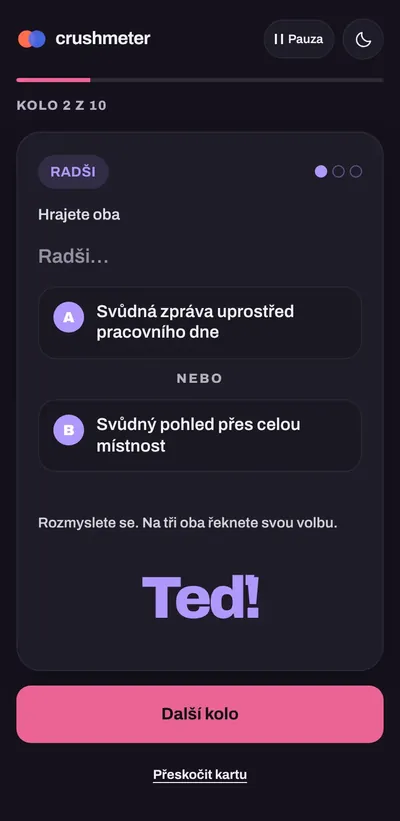
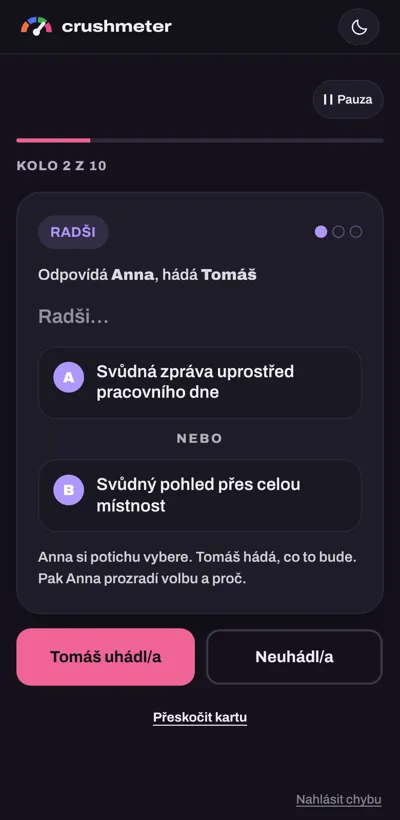
Odvážně 18+: místo odpočítávání na tři hádá druhý hráč
- karty Radši, Nikdy jsem a Kdo z nás: jeden odpovídá, druhý nejdřív tipne jeho odpověď
- tlačítka Uhádl/a a Neuhádl/a, body za uhádnutí, na konci skóre a kdo koho líp zná
- texty na prodejní stránce, v pravidlech a nový náhled na úvodní stránce, SW v38

Claude-Session: https://claude.ai/code/session_01TxdmqZYCfdtdxZaPeVsj1b

diff --git a/index.html b/index.html
@@ -39,7 +39,7 @@
 <section class="home-section" id="ukazka" aria-labelledby="demo-h">
 <h2 id="demo-h">Takhle to vypadá</h2>
 <div class="demo-tabs" role="tablist" aria-label="Vyberte hru"><button type="button" class="demo-tab is-quiz" role="tab" id="tab-quiz" aria-controls="demo-quiz" aria-selected="false">Kdo ví víc</button><button type="button" class="demo-tab is-know" role="tab" id="tab-know" aria-controls="demo-know" aria-selected="true">Jak dobře se znáte?</button><button type="button" class="demo-tab is-guess" role="tab" id="tab-guess" aria-controls="demo-guess" aria-selected="false">Předveď a hádej</button><button type="button" class="demo-tab is-adult" role="tab" id="tab-adult" aria-controls="demo-adult" aria-selected="false">Odvážně 18+</button></div>
-<div class="demo-panel" id="demo-know" role="tabpanel" aria-labelledby="tab-know"><ol class="demo-steps"><li><figure><button type="button" class="demo-zoom" aria-label="Zvětšit ukázku"><div class="phone"><img src="/assets/img/demo/know-1.webp" srcset="/assets/img/demo/know-1-400.webp 400w, /assets/img/demo/know-1.webp 780w" sizes="(max-width: 700px) 46vw, 300px" alt="Jak dobře se znáte?: Jeden si v klidu vybere odpověď o sobě." width="390" height="800" decoding="async"></div></button><figcaption>Jeden si v klidu vybere odpověď o sobě.</figcaption></figure></li><li><figure><button type="button" class="demo-zoom" aria-label="Zvětšit ukázku"><div class="phone"><img src="/assets/img/demo/know-2.webp" srcset="/assets/img/demo/know-2-400.webp 400w, /assets/img/demo/know-2.webp 780w" sizes="(max-width: 700px) 46vw, 300px" alt="Jak dobře se znáte?: Předá telefon a druhý tipuje, co vybral." width="390" height="800" decoding="async"></div></button><figcaption>Předá telefon a druhý tipuje, co vybral.</figcaption></figure></li><li><figure><button type="button" class="demo-zoom" aria-label="Zvětšit ukázku"><div class="phone"><img src="/assets/img/demo/know-3.webp" srcset="/assets/img/demo/know-3-400.webp 400w, /assets/img/demo/know-3.webp 780w" sizes="(max-width: 700px) 46vw, 300px" alt="Jak dobře se znáte?: Hra ukáže, jestli se trefil. Pak se role otočí." width="390" height="800" decoding="async"></div></button><figcaption>Hra ukáže, jestli se trefil. Pak se role otočí.</figcaption></figure></li></ol><a class="btn demo-go is-know" href="/jak-dobre-se-znate.html">Hrát Jak dobře se znáte?</a></div><div class="demo-panel" id="demo-guess" role="tabpanel" aria-labelledby="tab-guess"><ol class="demo-steps"><li><figure><button type="button" class="demo-zoom" aria-label="Zvětšit ukázku"><div class="phone"><img src="/assets/img/demo/guess-1.webp" srcset="/assets/img/demo/guess-1-400.webp 400w, /assets/img/demo/guess-1.webp 780w" sizes="(max-width: 700px) 46vw, 300px" alt="Předveď a hádej: Kdo napovídá, tajně si odkryje pojem." width="390" height="800" decoding="async"></div></button><figcaption>Kdo napovídá, tajně si odkryje pojem.</figcaption></figure></li><li><figure><button type="button" class="demo-zoom" aria-label="Zvětšit ukázku"><div class="phone"><img src="/assets/img/demo/guess-2.webp" srcset="/assets/img/demo/guess-2-400.webp 400w, /assets/img/demo/guess-2.webp 780w" sizes="(max-width: 700px) 46vw, 300px" alt="Předveď a hádej: Běží minuta. Popisujete, předvádíte nebo kreslíte." width="390" height="800" decoding="async"></div></button><figcaption>Běží minuta. Popisujete, předvádíte nebo kreslíte.</figcaption></figure></li><li><figure><button type="button" class="demo-zoom" aria-label="Zvětšit ukázku"><div class="phone"><img src="/assets/img/demo/guess-3.webp" srcset="/assets/img/demo/guess-3-400.webp 400w, /assets/img/demo/guess-3.webp 780w" sizes="(max-width: 700px) 46vw, 300px" alt="Předveď a hádej: Uhodnuto? Bod je společný a role se mění." width="390" height="800" decoding="async"></div></button><figcaption>Uhodnuto? Bod je společný a role se mění.</figcaption></figure></li></ol><a class="btn demo-go is-guess" href="/predved-a-hadej.html">Hrát Předveď a hádej</a></div><div class="demo-panel" id="demo-quiz" role="tabpanel" aria-labelledby="tab-quiz"><ol class="demo-steps"><li><figure><button type="button" class="demo-zoom" aria-label="Zvětšit ukázku"><div class="phone"><img src="/assets/img/demo/quiz-1.webp" srcset="/assets/img/demo/quiz-1-400.webp 400w, /assets/img/demo/quiz-1.webp 780w" sizes="(max-width: 700px) 46vw, 300px" alt="Kdo ví víc: Kdo odpovídá, vybere kategorii a obtížnost." width="390" height="800" decoding="async"></div></button><figcaption>Kdo odpovídá, vybere kategorii a obtížnost.</figcaption></figure></li><li><figure><button type="button" class="demo-zoom" aria-label="Zvětšit ukázku"><div class="phone"><img src="/assets/img/demo/quiz-2.webp" srcset="/assets/img/demo/quiz-2-400.webp 400w, /assets/img/demo/quiz-2.webp 780w" sizes="(max-width: 700px) 46vw, 300px" alt="Kdo ví víc: Předá telefon soupeři, ten otázku přečte nahlas." width="390" height="800" decoding="async"></div></button><figcaption>Předá telefon soupeři, ten otázku přečte nahlas.</figcaption></figure></li><li><figure><button type="button" class="demo-zoom" aria-label="Zvětšit ukázku"><div class="phone"><img src="/assets/img/demo/quiz-3.webp" srcset="/assets/img/demo/quiz-3-400.webp 400w, /assets/img/demo/quiz-3.webp 780w" sizes="(max-width: 700px) 46vw, 300px" alt="Kdo ví víc: Běží čas. Soupeř vidí odpověď a rozhodne, jestli platí." width="390" height="800" decoding="async"></div></button><figcaption>Běží čas. Soupeř vidí odpověď a rozhodne, jestli platí.</figcaption></figure></li></ol><a class="btn demo-go is-quiz" href="/kdo-vi-vic.html">Hrát Kdo ví víc</a></div><div class="demo-panel" id="demo-adult" role="tabpanel" aria-labelledby="tab-adult"><ol class="demo-steps"><li><figure><button type="button" class="demo-zoom" aria-label="Zvětšit ukázku"><div class="phone"><img src="/assets/img/demo/adult-1.webp" srcset="/assets/img/demo/adult-1-400.webp 400w, /assets/img/demo/adult-1.webp 780w" sizes="(max-width: 700px) 46vw, 300px" alt="Odvážně 18+: Přiznání: jeden odpovídá, druhý poslouchá." width="390" height="800" decoding="async"></div></button><figcaption>Přiznání: jeden odpovídá, druhý poslouchá.</figcaption></figure></li><li><figure><button type="button" class="demo-zoom" aria-label="Zvětšit ukázku"><div class="phone"><img src="/assets/img/demo/adult-2.webp" srcset="/assets/img/demo/adult-2-400.webp 400w, /assets/img/demo/adult-2.webp 780w" sizes="(max-width: 700px) 46vw, 300px" alt="Odvážně 18+: Radši: na tři oba ukážete svou volbu." width="390" height="800" decoding="async"></div></button><figcaption>Radši: na tři oba ukážete svou volbu.</figcaption></figure></li><li><figure><button type="button" class="demo-zoom" aria-label="Zvětšit ukázku"><div class="phone"><img src="/assets/img/demo/adult-3.webp" srcset="/assets/img/demo/adult-3-400.webp 400w, /assets/img/demo/adult-3.webp 780w" sizes="(max-width: 700px) 46vw, 300px" alt="Odvážně 18+: Výzva: splníte, nebo v klidu přeskočíte." width="390" height="800" decoding="async"></div></button><figcaption>Výzva: splníte, nebo v klidu přeskočíte.</figcaption></figure></li></ol><a class="btn demo-go is-adult" href="/odvazne-18-ukazka.html">Zkusit ukázku zdarma</a></div>
+<div class="demo-panel" id="demo-know" role="tabpanel" aria-labelledby="tab-know"><ol class="demo-steps"><li><figure><button type="button" class="demo-zoom" aria-label="Zvětšit ukázku"><div class="phone"><img src="/assets/img/demo/know-1.webp" srcset="/assets/img/demo/know-1-400.webp 400w, /assets/img/demo/know-1.webp 780w" sizes="(max-width: 700px) 46vw, 300px" alt="Jak dobře se znáte?: Jeden si v klidu vybere odpověď o sobě." width="390" height="800" decoding="async"></div></button><figcaption>Jeden si v klidu vybere odpověď o sobě.</figcaption></figure></li><li><figure><button type="button" class="demo-zoom" aria-label="Zvětšit ukázku"><div class="phone"><img src="/assets/img/demo/know-2.webp" srcset="/assets/img/demo/know-2-400.webp 400w, /assets/img/demo/know-2.webp 780w" sizes="(max-width: 700px) 46vw, 300px" alt="Jak dobře se znáte?: Předá telefon a druhý tipuje, co vybral." width="390" height="800" decoding="async"></div></button><figcaption>Předá telefon a druhý tipuje, co vybral.</figcaption></figure></li><li><figure><button type="button" class="demo-zoom" aria-label="Zvětšit ukázku"><div class="phone"><img src="/assets/img/demo/know-3.webp" srcset="/assets/img/demo/know-3-400.webp 400w, /assets/img/demo/know-3.webp 780w" sizes="(max-width: 700px) 46vw, 300px" alt="Jak dobře se znáte?: Hra ukáže, jestli se trefil. Pak se role otočí." width="390" height="800" decoding="async"></div></button><figcaption>Hra ukáže, jestli se trefil. Pak se role otočí.</figcaption></figure></li></ol><a class="btn demo-go is-know" href="/jak-dobre-se-znate.html">Hrát Jak dobře se znáte?</a></div><div class="demo-panel" id="demo-guess" role="tabpanel" aria-labelledby="tab-guess"><ol class="demo-steps"><li><figure><button type="button" class="demo-zoom" aria-label="Zvětšit ukázku"><div class="phone"><img src="/assets/img/demo/guess-1.webp" srcset="/assets/img/demo/guess-1-400.webp 400w, /assets/img/demo/guess-1.webp 780w" sizes="(max-width: 700px) 46vw, 300px" alt="Předveď a hádej: Kdo napovídá, tajně si odkryje pojem." width="390" height="800" decoding="async"></div></button><figcaption>Kdo napovídá, tajně si odkryje pojem.</figcaption></figure></li><li><figure><button type="button" class="demo-zoom" aria-label="Zvětšit ukázku"><div class="phone"><img src="/assets/img/demo/guess-2.webp" srcset="/assets/img/demo/guess-2-400.webp 400w, /assets/img/demo/guess-2.webp 780w" sizes="(max-width: 700px) 46vw, 300px" alt="Předveď a hádej: Běží minuta. Popisujete, předvádíte nebo kreslíte." width="390" height="800" decoding="async"></div></button><figcaption>Běží minuta. Popisujete, předvádíte nebo kreslíte.</figcaption></figure></li><li><figure><button type="button" class="demo-zoom" aria-label="Zvětšit ukázku"><div class="phone"><img src="/assets/img/demo/guess-3.webp" srcset="/assets/img/demo/guess-3-400.webp 400w, /assets/img/demo/guess-3.webp 780w" sizes="(max-width: 700px) 46vw, 300px" alt="Předveď a hádej: Uhodnuto? Bod je společný a role se mění." width="390" height="800" decoding="async"></div></button><figcaption>Uhodnuto? Bod je společný a role se mění.</figcaption></figure></li></ol><a class="btn demo-go is-guess" href="/predved-a-hadej.html">Hrát Předveď a hádej</a></div><div class="demo-panel" id="demo-quiz" role="tabpanel" aria-labelledby="tab-quiz"><ol class="demo-steps"><li><figure><button type="button" class="demo-zoom" aria-label="Zvětšit ukázku"><div class="phone"><img src="/assets/img/demo/quiz-1.webp" srcset="/assets/img/demo/quiz-1-400.webp 400w, /assets/img/demo/quiz-1.webp 780w" sizes="(max-width: 700px) 46vw, 300px" alt="Kdo ví víc: Kdo odpovídá, vybere kategorii a obtížnost." width="390" height="800" decoding="async"></div></button><figcaption>Kdo odpovídá, vybere kategorii a obtížnost.</figcaption></figure></li><li><figure><button type="button" class="demo-zoom" aria-label="Zvětšit ukázku"><div class="phone"><img src="/assets/img/demo/quiz-2.webp" srcset="/assets/img/demo/quiz-2-400.webp 400w, /assets/img/demo/quiz-2.webp 780w" sizes="(max-width: 700px) 46vw, 300px" alt="Kdo ví víc: Předá telefon soupeři, ten otázku přečte nahlas." width="390" height="800" decoding="async"></div></button><figcaption>Předá telefon soupeři, ten otázku přečte nahlas.</figcaption></figure></li><li><figure><button type="button" class="demo-zoom" aria-label="Zvětšit ukázku"><div class="phone"><img src="/assets/img/demo/quiz-3.webp" srcset="/assets/img/demo/quiz-3-400.webp 400w, /assets/img/demo/quiz-3.webp 780w" sizes="(max-width: 700px) 46vw, 300px" alt="Kdo ví víc: Běží čas. Soupeř vidí odpověď a rozhodne, jestli platí." width="390" height="800" decoding="async"></div></button><figcaption>Běží čas. Soupeř vidí odpověď a rozhodne, jestli platí.</figcaption></figure></li></ol><a class="btn demo-go is-quiz" href="/kdo-vi-vic.html">Hrát Kdo ví víc</a></div><div class="demo-panel" id="demo-adult" role="tabpanel" aria-labelledby="tab-adult"><ol class="demo-steps"><li><figure><button type="button" class="demo-zoom" aria-label="Zvětšit ukázku"><div class="phone"><img src="/assets/img/demo/adult-1.webp" srcset="/assets/img/demo/adult-1-400.webp 400w, /assets/img/demo/adult-1.webp 780w" sizes="(max-width: 700px) 46vw, 300px" alt="Odvážně 18+: Přiznání: jeden odpovídá, druhý poslouchá." width="390" height="800" decoding="async"></div></button><figcaption>Přiznání: jeden odpovídá, druhý poslouchá.</figcaption></figure></li><li><figure><button type="button" class="demo-zoom" aria-label="Zvětšit ukázku"><div class="phone"><img src="/assets/img/demo/adult-2.webp" srcset="/assets/img/demo/adult-2-400.webp 400w, /assets/img/demo/adult-2.webp 780w" sizes="(max-width: 700px) 46vw, 300px" alt="Odvážně 18+: Radši: jeden si vybere, druhý hádá co." width="390" height="800" decoding="async"></div></button><figcaption>Radši: jeden si vybere, druhý hádá co.</figcaption></figure></li><li><figure><button type="button" class="demo-zoom" aria-label="Zvětšit ukázku"><div class="phone"><img src="/assets/img/demo/adult-3.webp" srcset="/assets/img/demo/adult-3-400.webp 400w, /assets/img/demo/adult-3.webp 780w" sizes="(max-width: 700px) 46vw, 300px" alt="Odvážně 18+: Výzva: splníte, nebo v klidu přeskočíte." width="390" height="800" decoding="async"></div></button><figcaption>Výzva: splníte, nebo v klidu přeskočíte.</figcaption></figure></li></ol><a class="btn demo-go is-adult" href="/odvazne-18-ukazka.html">Zkusit ukázku zdarma</a></div>
 </section>
 
 <section class="home-section about" aria-labelledby="about-h">

diff --git a/assets/adult.js b/assets/adult.js
@@ -14,9 +14,9 @@
 
   const TYPES = {
     priznani: { kicker: 'PŘIZNÁNÍ', prefix: '', how: 'Odpověz nahlas a upřímně. Druhý poslouchá.', personal: true, main: 'Řečeno, další' },
-    radsi: { kicker: 'RADŠI', prefix: '', how: 'Rozmyslete se. Na tři oba řeknete svou volbu.', sync: true },
-    nikdy: { kicker: 'NIKDY JSEM…', prefix: 'Nikdy jsem ', how: 'Na tři oba řeknete: „dělal/a“, nebo „nedělal/a“.', sync: true },
-    kdo: { kicker: 'KDO Z NÁS…', prefix: 'Kdo z nás ', how: 'Na tři oba ukážete prstem.', sync: true },
+    radsi: { kicker: 'RADŠI', prefix: '', how: (p, o) => `${p} si potichu vybere. ${o} hádá, co to bude. Pak ${p} prozradí volbu a proč.`, personal: true, guess: true },
+    nikdy: { kicker: 'NIKDY JSEM…', prefix: 'Nikdy jsem ', how: (p, o) => `${o} tipne, jestli to ${p} někdy udělal/a. Pak ${p} řekne pravdu, a když ano, i příběh.`, personal: true, guess: true },
+    kdo: { kicker: 'KDO Z NÁS…', prefix: 'Kdo z nás ', how: (p, o) => `${p} si v duchu odpoví. ${o} hádá, koho z vás ${p} označí. Pak se to vysvětlí.`, personal: true, guess: true },
     vyzva: { kicker: 'VÝZVA', prefix: '', how: 'Splň ji, nebo ji přeskoč. Nikdo tě nenutí.', personal: true, main: 'Splněno, další' }
   };
   const LEVELS = { 1: 'Lehce osobní', 2: 'Odvážné', 3: 'Velmi žhavé' };
@@ -143,6 +143,8 @@ ${full && access ? `<p class="a-small"><button type="button" class="text-button"
     const meta = TYPES[card.type];
     const total = s.cards.length;
     const player = meta.personal ? s.players[s.t % 2] : null;
+    const other = meta.personal ? s.players[(s.t + 1) % 2] : null;
+    const how = typeof meta.how === 'function' ? meta.how(E(player), E(other)) : meta.how;
     const body = card.type === 'radsi'
       ? `<p class="a-prefix">Radši…</p><div class="a-ab"><div><b>A</b><span>${E(card.a)}</span></div><div class="a-or" aria-hidden="true">nebo</div><div><b>B</b><span>${E(card.b)}</span></div></div>`
       : `${meta.prefix ? `<p class="a-prefix">${E(meta.prefix.trim())}</p>` : ''}<h2 class="a-text" data-focus tabindex="-1">${E(card.text)}</h2>`;
@@ -152,23 +154,26 @@ ${full && access ? `<p class="a-small"><button type="button" class="text-button"
 <p class="a-count">Kolo ${s.i + 1} z ${total}</p>
 <article class="a-card t-${card.type}" id="a-card">
 <div class="a-card-top"><span class="a-type">${meta.kicker}</span>${card.ero ? '<span class="a-ero">Erotika</span>' : ''}<span class="a-lvl" role="img" aria-label="Intenzita: ${LEVELS[card.lvl]}">${lvl}</span></div>
-<p class="a-who">${player ? `Na řadě: <b>${E(player)}</b>` : 'Hrajete oba'}</p>
+<p class="a-who">${meta.guess ? `Odpovídá <b>${E(player)}</b>, hádá <b>${E(other)}</b>` : player ? `Na řadě: <b>${E(player)}</b>` : 'Hrajete oba'}</p>
 ${body}
-<p class="a-how">${meta.how}</p>
-<div class="a-count3" id="a-count3" aria-live="assertive" hidden></div>
+<p class="a-how">${how}</p>
 </article>
-<div class="a-actions"><button type="button" class="arcade-button a-main" data-act="${meta.sync ? 'countdown' : 'next'}" id="a-main">${meta.sync ? 'Na tři!' : meta.main}</button><button type="button" class="text-button" data-act="skip">Přeskočit kartu</button></div>
+<div class="a-actions">${meta.guess ? `<div class="a-guess"><button type="button" class="arcade-button a-main" data-act="hit" id="a-main">${E(other)} uhádl/a</button><button type="button" class="arcade-button is-ghost" data-act="miss">Neuhádl/a</button></div>` : `<button type="button" class="arcade-button a-main" data-act="next" id="a-main">${meta.main}</button>`}<button type="button" class="text-button" data-act="skip">Přeskočit kartu</button></div>
 <p class="report-row">${REPORT('Odvážně 18+',['Karta: '+card.id,card.type==='radsi'?'Radši: '+card.a+' / '+card.b:'Text: '+card.text])}</p>`, card.type === 'radsi' ? '#a-main' : '[data-focus]');
   }
 
   function endScreen() {
     lsDel(SESSION_KEY);
     const played = s.cards.length - (s.dropped || 0);
+    const sc = s.score || [0, 0];
+    const guessed = sc[0] + sc[1] > 0 || s.guesses;
+    const verdict = sc[0] === sc[1] ? 'Znáte se navzájem stejně dobře.' : `Líp odhaduje ${E(s.players[sc[0] > sc[1] ? 0 : 1])}.`;
+    const scoreHtml = guessed ? `<div class="a-score" aria-label="Uhádnuté odpovědi"><div><span>${E(s.players[0])}</span><b>${sc[0]}</b></div><div><span>${E(s.players[1])}</span><b>${sc[1]}</b></div></div><p class="a-verdict">${verdict}</p>` : '';
     track(mode === 'full' ? 'paid_game_complete' : 'adult_preview_complete', { game: 'odvazne-18', mode, rounds: s.cards.length, skipped: s.skipped });
     const offer = mode === 'preview'
       ? `<section class="a-offer" id="a-offer"><span class="a-sticker">18+</span><h2>Chcete dál?</h2><p>Plná hra má 234 karet v pěti typech kol, z toho 84 erotických pro páry. Pár nebo kamarádi, intenzitu si nastavíte. Přístup na 12 měsíců za 99 Kč, jednorázově, bez předplatného.</p><div class="a-actions">${shopLink('preview-end', 'Koupit za 99 Kč')}<a class="text-button" href="/odvazne-18.html" data-track="adult_offer_click" data-track-placement="preview-end">Co hra obsahuje</a><a class="text-button" href="/odvazne-18-hrat.html">Už mám přístup</a></div></section>`
       : '';
-    screen(`${topbar()}<section class="a-panel a-end"><span class="a-sticker">18+</span><h1 data-focus tabindex="-1">${mode === 'full' ? 'To byl večer.' : 'To byla ochutnávka.'}</h1><p class="a-lead">Odehráno ${played} ${played === 1 ? 'kolo' : played >= 2 && played <= 4 ? 'kola' : 'kol'}${s.skipped ? `, přeskočeno ${s.skipped}` : ''}.</p>${offer}<aside class="promo is-tarot" data-partner-slot><span class="promo-mark" aria-hidden="true">✦</span><div><small>Něco jiného</small><strong>Co vám karty řeknou o vás dvou?</strong><p>Virtuální kartářka vám vytáhne karty a odpoví česky.</p><a href="https://virtualnikartarka.cz/?utm_source=crushmeter&amp;utm_medium=referral&amp;utm_campaign=konec_hry_18" target="_blank" rel="noopener" data-track="click_virtualni_kartarka" data-track-placement="adult-end">Vytáhnout karty →</a></div></aside><div class="a-actions"><button type="button" class="arcade-button" data-act="again">Zahrát znovu</button><a class="text-button" href="/">Zpět na hry</a></div></section>`);
+    screen(`${topbar()}<section class="a-panel a-end"><span class="a-sticker">18+</span><h1 data-focus tabindex="-1">${mode === 'full' ? 'To byl večer.' : 'To byla ochutnávka.'}</h1><p class="a-lead">Odehráno ${played} ${played === 1 ? 'kolo' : played >= 2 && played <= 4 ? 'kola' : 'kol'}${s.skipped ? `, přeskočeno ${s.skipped}` : ''}.</p>${scoreHtml}${offer}<aside class="promo is-tarot" data-partner-slot><span class="promo-mark" aria-hidden="true">✦</span><div><small>Něco jiného</small><strong>Co vám karty řeknou o vás dvou?</strong><p>Virtuální kartářka vám vytáhne karty a odpoví česky.</p><a href="https://virtualnikartarka.cz/?utm_source=crushmeter&amp;utm_medium=referral&amp;utm_campaign=konec_hry_18" target="_blank" rel="noopener" data-track="click_virtualni_kartarka" data-track-placement="adult-end">Vytáhnout karty →</a></div></aside><div class="a-actions"><button type="button" class="arcade-button" data-act="again">Zahrát znovu</button><a class="text-button" href="/">Zpět na hry</a></div></section>`);
     if (mode === 'preview') track('adult_offer_view', { game: 'odvazne-18', placement: 'preview-end' });
     s = null;
   }
@@ -179,7 +184,7 @@ ${body}
     lsSet(NAMES_KEY, [opts.p1 || '', opts.p2 || '']);
     const cards = mode === 'preview' ? pool.map(c => c.id) : buildDeck({ aud: opts.aud, max: opts.max, rounds: opts.rounds, ero: opts.ero });
     if (!cards.length) { accessGate('Pro toto nastavení se nenašly karty. Zkus vyšší intenzitu.', 'bad'); return; }
-    s = { players: names, cards, i: 0, t: Math.random() < 0.5 ? 0 : 1, skipped: 0, aud: opts.aud || 'oba', max: opts.max || 3, ero: opts.ero || 'bez' };
+    s = { players: names, cards, i: 0, t: Math.random() < 0.5 ? 0 : 1, skipped: 0, score: [0, 0], guesses: 0, aud: opts.aud || 'oba', max: opts.max || 3, ero: opts.ero || 'bez' };
     lsSet(SESSION_KEY, s);
     track(mode === 'full' ? 'paid_game_start' : 'adult_preview_start', { game: 'odvazne-18', mode, rounds: cards.length, level: s.max, audience: s.aud });
     cardScreen();
@@ -217,24 +222,7 @@ ${body}
     cardScreen();
   }
 
-  function countdown() {
-    const box = document.getElementById('a-count3');
-    const btn = document.getElementById('a-main');
-    btn.disabled = true;
-    box.hidden = false;
-    let n = 3;
-    const tick = () => {
-      if (n > 0) { box.textContent = n; box.className = 'a-count3 n' + n; n -= 1; }
-      else {
-        clearInterval(timer);
-        box.textContent = 'Teď!'; box.className = 'a-count3 go';
-        btn.disabled = false; btn.textContent = 'Další kolo'; btn.dataset.act = 'next';
-        btn.focus({ preventScroll: true });
-      }
-    };
-    tick();
-    timer = setInterval(tick, REDUCED ? 700 : 850);
-  }
+
 
   function formValues(form) {
     const f = new FormData(form);
@@ -247,7 +235,7 @@ ${body}
     const act = el.dataset.act;
     if (act === 'age-yes') { lsSet(AGE_KEY, new Date().toISOString().slice(0, 10)); return boot(); }
     if (act === 'resume') { s = lsGet(SESSION_KEY, null); if (s) return cardScreen(); }
-    if (act === 'countdown') return countdown();
+    if (act === 'hit' || act === 'miss') { if (!s.score) s.score = [0, 0]; s.guesses = (s.guesses || 0) + 1; if (act === 'hit') s.score[(s.t + 1) % 2] += 1; return advance(); }
     if (act === 'next') return advance();
     if (act === 'skip') return skip();
     if (act === 'menu') { clearInterval(timer); lsSet(SESSION_KEY, s); return setup(); }

diff --git a/jak-hrat.html b/jak-hrat.html
@@ -14,7 +14,7 @@
 
 
 
-<section class="rule is-adult" id="odvazne-18" aria-labelledby="odvazne-18-h"><header class="rule-head"><div><h2 id="odvazne-18-h">Odvážně 18+</h2><p>Přiznání, volby a výzvy pro dospělé páry i kamarády.</p><ul class="rule-facts"><li><svg viewBox="0 0 24 24" fill="none" stroke="currentColor" stroke-width="2" stroke-linecap="round" aria-hidden="true"><circle cx="9" cy="8" r="3.5"/><path d="M2.5 20c.6-3.4 3.2-5.5 6.5-5.5s5.9 2.1 6.5 5.5M16 4.6a3.5 3.5 0 0 1 0 6.8M18.5 14.8c1.7.8 2.8 2.6 3 5.2"/></svg><span>2 hráči, jen 18+</span></li><li><svg viewBox="0 0 24 24" fill="none" stroke="currentColor" stroke-width="2" stroke-linecap="round" aria-hidden="true"><circle cx="12" cy="12" r="9"/><path d="M12 7v5l3 2"/></svg><span>10, 20 nebo 30 kol</span></li><li><svg viewBox="0 0 24 24" fill="none" stroke="currentColor" stroke-width="2" stroke-linejoin="round" aria-hidden="true"><rect x="3" y="6" width="12" height="15" rx="2"/><path d="M8 3h11a2 2 0 0 1 2 2v13"/></svg><span>234 karet</span></li></ul></div><a class="btn rule-go" href="/odvazne-18-ukazka.html">Zkusit 10 karet zdarma</a></header><div class="rule-body"><ol class="rule-steps"><li><button type="button" class="demo-zoom" aria-label="Zvětšit ukázku"><div class="phone"><img src="/assets/img/demo/adult-1.webp" srcset="/assets/img/demo/adult-1-400.webp 400w, /assets/img/demo/adult-1.webp 780w" sizes="(max-width: 700px) 46vw, 300px" alt="" width="390" height="800" loading="lazy" decoding="async"></div></button><p>Přiznání: jeden odpovídá, druhý poslouchá.</p></li><li><button type="button" class="demo-zoom" aria-label="Zvětšit ukázku"><div class="phone"><img src="/assets/img/demo/adult-2.webp" srcset="/assets/img/demo/adult-2-400.webp 400w, /assets/img/demo/adult-2.webp 780w" sizes="(max-width: 700px) 46vw, 300px" alt="" width="390" height="800" loading="lazy" decoding="async"></div></button><p>Radši: na tři oba ukážete svou volbu.</p></li><li><button type="button" class="demo-zoom" aria-label="Zvětšit ukázku"><div class="phone"><img src="/assets/img/demo/adult-3.webp" srcset="/assets/img/demo/adult-3-400.webp 400w, /assets/img/demo/adult-3.webp 780w" sizes="(max-width: 700px) 46vw, 300px" alt="" width="390" height="800" loading="lazy" decoding="async"></div></button><p>Výzva: splníte, nebo v klidu přeskočíte.</p></li></ol><h3>Tři úrovně odvážnosti</h3><ul class="rule-tiles "><li><strong>Lehce osobní</strong><span>Na rozehřátí. Otázky, které zvládne každý.</span></li><li><strong>Odvážné</strong><span>Tady už se začne červenat.</span></li><li><strong>Velmi žhavé</strong><span>Jen když chcete. Nejvyšší úroveň si nastavíte sami.</span></li></ul><details class="rule-more"><summary>Podrobná pravidla</summary><div><ol><li>Na začátku zadáte jména, vyberete, jestli hrajete jako pár, nebo jako kamarádi, zvolíte nejvyšší úroveň odvážnosti a počet kol: 10, 20 nebo 30.</li><li>Hra říká, kdo je na řadě. U karet Radši, Nikdy jsem a Kdo z nás odpovídáte oba najednou na tři.</li><li>Kartu můžete kdykoli přeskočit. Hra pak vytáhne jinou kartu stejného druhu.</li></ol><p>Nikdo si nic neschovává a telefon se nepředává. Odpovědi se nikam neukládají ani neodesílají. Deset karet si zahrajete zdarma v ukázce, celá hra má 234 karet. Páry si v nastavení můžou zapnout i 84 erotických karet: přimíchat je mezi ostatní, nebo hrát jen je.</p></div></details></div></section>
+<section class="rule is-adult" id="odvazne-18" aria-labelledby="odvazne-18-h"><header class="rule-head"><div><h2 id="odvazne-18-h">Odvážně 18+</h2><p>Přiznání, volby a výzvy pro dospělé páry i kamarády.</p><ul class="rule-facts"><li><svg viewBox="0 0 24 24" fill="none" stroke="currentColor" stroke-width="2" stroke-linecap="round" aria-hidden="true"><circle cx="9" cy="8" r="3.5"/><path d="M2.5 20c.6-3.4 3.2-5.5 6.5-5.5s5.9 2.1 6.5 5.5M16 4.6a3.5 3.5 0 0 1 0 6.8M18.5 14.8c1.7.8 2.8 2.6 3 5.2"/></svg><span>2 hráči, jen 18+</span></li><li><svg viewBox="0 0 24 24" fill="none" stroke="currentColor" stroke-width="2" stroke-linecap="round" aria-hidden="true"><circle cx="12" cy="12" r="9"/><path d="M12 7v5l3 2"/></svg><span>10, 20 nebo 30 kol</span></li><li><svg viewBox="0 0 24 24" fill="none" stroke="currentColor" stroke-width="2" stroke-linejoin="round" aria-hidden="true"><rect x="3" y="6" width="12" height="15" rx="2"/><path d="M8 3h11a2 2 0 0 1 2 2v13"/></svg><span>234 karet</span></li></ul></div><a class="btn rule-go" href="/odvazne-18-ukazka.html">Zkusit 10 karet zdarma</a></header><div class="rule-body"><ol class="rule-steps"><li><button type="button" class="demo-zoom" aria-label="Zvětšit ukázku"><div class="phone"><img src="/assets/img/demo/adult-1.webp" srcset="/assets/img/demo/adult-1-400.webp 400w, /assets/img/demo/adult-1.webp 780w" sizes="(max-width: 700px) 46vw, 300px" alt="" width="390" height="800" loading="lazy" decoding="async"></div></button><p>Přiznání: jeden odpovídá, druhý poslouchá.</p></li><li><button type="button" class="demo-zoom" aria-label="Zvětšit ukázku"><div class="phone"><img src="/assets/img/demo/adult-2.webp" srcset="/assets/img/demo/adult-2-400.webp 400w, /assets/img/demo/adult-2.webp 780w" sizes="(max-width: 700px) 46vw, 300px" alt="" width="390" height="800" loading="lazy" decoding="async"></div></button><p>Radši: jeden si vybere, druhý hádá co.</p></li><li><button type="button" class="demo-zoom" aria-label="Zvětšit ukázku"><div class="phone"><img src="/assets/img/demo/adult-3.webp" srcset="/assets/img/demo/adult-3-400.webp 400w, /assets/img/demo/adult-3.webp 780w" sizes="(max-width: 700px) 46vw, 300px" alt="" width="390" height="800" loading="lazy" decoding="async"></div></button><p>Výzva: splníte, nebo v klidu přeskočíte.</p></li></ol><h3>Tři úrovně odvážnosti</h3><ul class="rule-tiles "><li><strong>Lehce osobní</strong><span>Na rozehřátí. Otázky, které zvládne každý.</span></li><li><strong>Odvážné</strong><span>Tady už se začne červenat.</span></li><li><strong>Velmi žhavé</strong><span>Jen když chcete. Nejvyšší úroveň si nastavíte sami.</span></li></ul><details class="rule-more"><summary>Podrobná pravidla</summary><div><ol><li>Na začátku zadáte jména, vyberete, jestli hrajete jako pár, nebo jako kamarádi, zvolíte nejvyšší úroveň odvážnosti a počet kol: 10, 20 nebo 30.</li><li>Hra říká, kdo je na řadě. U karet Radši, Nikdy jsem a Kdo z nás jeden odpovídá a druhý nejdřív hádá jeho odpověď. Za uhádnutí je bod.</li><li>Kartu můžete kdykoli přeskočit. Hra pak vytáhne jinou kartu stejného druhu.</li></ol><p>Nikdo si nic neschovává a telefon se nepředává. Odpovědi se nikam neukládají ani neodesílají. Deset karet si zahrajete zdarma v ukázce, celá hra má 234 karet. Páry si v nastavení můžou zapnout i 84 erotických karet: přimíchat je mezi ostatní, nebo hrát jen je.</p></div></details></div></section>
 <section class="rules-notes" aria-label="Pro všechny hry">
 <div><h2>Hra si pamatuje, kde jste skončili</h2><p>Rozehraná hra, použité otázky a pojmy zůstávají jen v tomto prohlížeči. Příště můžete pokračovat. Historii smažete v nastavení hry.</p></div>
 <div><h2>Pauza je vždycky po ruce</h2><p>Když odejdete z aplikace nebo zhasnete displej, běžící kolo se zastaví. Čas vám neuteče mimo hru. Hrajete na cestách? Mrkněte na <a href="/hry-na-dovolenou.html">tipy na dovolenou</a>.</p></div>

diff --git a/odvazne-18.html b/odvazne-18.html
@@ -11,7 +11,7 @@
 
 <section class="sale-sec"><h2>Jak se hraje</h2><div class="sale-grid">
 <div class="sale-card"><span class="n">1</span><h3>Nastavíte večer</h3><p>Jména, jestli hrajete jako pár, nebo kamarádi, jak odvážně a kolik kol. 10, 20 nebo 30.</p></div>
-<div class="sale-card"><span class="n">2</span><h3>Hrajete kolo po kole</h3><p>Hra říká, kdo je na řadě. U některých karet odpovídáte oba najednou na tři.</p></div>
+<div class="sale-card"><span class="n">2</span><h3>Hrajete kolo po kole</h3><p>Hra říká, kdo je na řadě. U některých karet druhý hádá, co odpovíte, a hra počítá, kdo koho líp zná.</p></div>
 <div class="sale-card"><span class="n">3</span><h3>Přeskočíte, co nechcete</h3><p>Tlačítko Přeskočit je pořád po ruce. Hra pak vytáhne jinou kartu stejného druhu.</p></div></div>
 <p class="sale-note" style="margin-top:14px">Nikdo si nic neschovává a telefon se nepředává. Dá se hrát u jednoho stolu i na gauči.</p></section>
 
@@ -19,7 +19,7 @@
 <div class="sale-round t-priznani"><b>PŘIZNÁNÍ</b><p>Za co tě druzí chválí nejčastěji, ale ty tomu moc nevěříš?</p></div>
 <div class="sale-round t-radsi"><b>RADŠI</b><p>Svůdná zpráva uprostřed pracovního dne, nebo svůdný pohled přes celou místnost?</p></div>
 <div class="sale-round t-nikdy"><b>NIKDY JSEM</b><p>Nikdy jsem poslal/a zprávu a hned ji chtěl/a smazat.</p></div>
-<div class="sale-round t-kdo"><b>KDO Z NÁS</b><p>Kdo z nás je větší romantik? Na tři oba ukážete prstem.</p></div>
+<div class="sale-round t-kdo"><b>KDO Z NÁS</b><p>Kdo z nás je větší romantik? Druhý hádá, koho označíš.</p></div>
 <div class="sale-round t-vyzva"><b>VÝZVA</b><p>Zahraj s vážnou tváří nejhorší seznamovací hlášku, jakou znáš.</p></div></div>
 <div class="sale-cta" style="margin-top:20px"><a class="arcade-button" href="/odvazne-18-ukazka.html" data-track="adult_preview_click" data-track-placement="sales-rounds">Zkusit deset karet zdarma</a></div></section>
 

diff --git a/sw.js b/sw.js
@@ -1,5 +1,5 @@
 'use strict';
-const CACHE='crushmeter-free-v37-20261121';
+const CACHE='crushmeter-free-v38-20261121';
 const CORE=['/','/index.html','/predved-a-hadej.html','/jak-dobre-se-znate.html','/kdo-vi-vic.html','/assets/quiz.js','/assets/quiz-data.js','/assets/img/shot-quiz.webp','/assets/home.js','/jak-hrat.html','/hry-na-dovolenou.html','/assets/theme.js','/assets/fonts/archivo-latin-wdth-normal.woff2','/assets/fonts/archivo-latin-ext-wdth-normal.woff2','/assets/styles.css','/assets/play.css','/assets/pop.css','/assets/img/shot-know.webp','/assets/img/shot-guess.webp','/assets/img/shot-adult.webp','/assets/play.js','/assets/common.js','/assets/config.js','/assets/analytics.js','/assets/promo.js','/assets/access.js','/assets/adult.js','/assets/adult.css','/assets/adult-preview.js','/odvazne-18.html','/odvazne-18-ukazka.html','/odvazne-18-hrat.html','/assets/data.js','/assets/guess.js','/assets/know.js','/favicon.svg','/icon-192.png','/icon-512.png','/apple-touch-icon.png','/site.webmanifest'];
 self.addEventListener('install',event=>{event.waitUntil(caches.open(CACHE).then(cache=>cache.addAll(CORE.map(url=>new Request(url,{cache:'reload'})))).then(()=>self.skipWaiting()))});
 self.addEventListener('activate',event=>{event.waitUntil(caches.keys().then(keys=>Promise.all(keys.filter(k=>k.startsWith('crushmeter-free-')&&k!==CACHE).map(k=>caches.delete(k)))).then(()=>self.clients.claim()))});

diff --git a/assets/adult.css b/assets/adult.css
@@ -138,3 +138,13 @@
 .a-buyhint-links a{display:inline-flex;align-items:center;min-height:40px;padding:0 15px;border-radius:999px;border:1px solid var(--cm-outline);background:var(--cm-surface);color:var(--cm-ink);font-weight:750;text-decoration:none}
 .a-buyhint-links a.is-buy{background:var(--pop-coral);border-color:transparent;color:#fff}
 .a-buyhint-links a:focus-visible{outline:3px solid var(--cm-ink);outline-offset:2px}
+/* Hádání: druhý tipuje odpověď toho, kdo je na řadě */
+.a-guess{display:grid;grid-template-columns:1fr 1fr;gap:10px}
+.a-actions .a-guess .arcade-button{min-height:56px;padding:0 12px;font-size:.98rem;text-align:center;line-height:1.2}
+.a-actions .arcade-button.is-ghost{background:transparent;color:var(--cm-ink);box-shadow:inset 0 0 0 2px var(--cm-outline)}
+.a-actions .arcade-button.is-ghost:hover{box-shadow:inset 0 0 0 2px var(--cm-ink)}
+.a-score{display:grid;grid-template-columns:1fr 1fr;gap:10px;margin:6px 0 4px}
+.a-score div{display:flex;flex-direction:column;align-items:center;gap:2px;padding:14px 10px;border-radius:18px;background:var(--cm-surface-alt);border:1px solid var(--cm-outline)}
+.a-score span{font-size:.9rem;font-weight:700;color:var(--cm-muted);max-width:100%;overflow:hidden;text-overflow:ellipsis;white-space:nowrap}
+.a-score b{font-size:2.2rem;line-height:1;font-weight:850}
+.a-verdict{margin:6px 0 0;font-weight:700}
